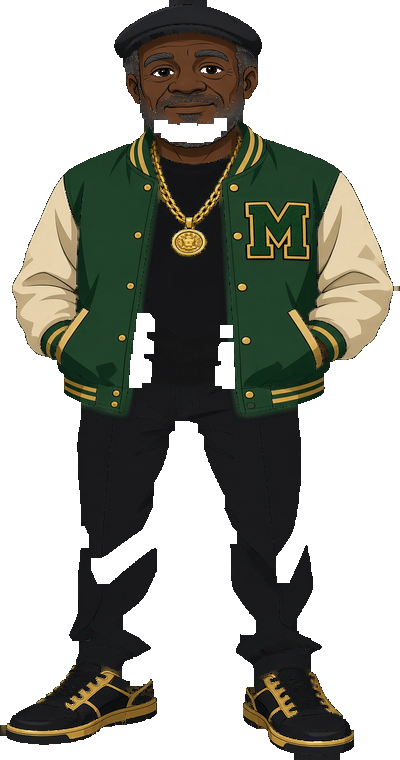
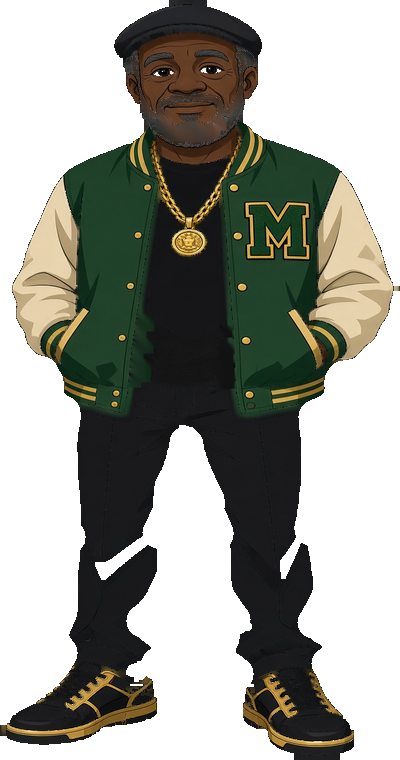
Sprites: clean street crowd, true Benji colours, repair trouser cuts
- PED_SKINS now uses only full-body single-figure plates. Dropped the K Blanco
  bust (walker4), K Blanco clone (walker5), back-only Benji lookalike
  (walker3, still Cam's sprite), two-figure sheet (walker6), and plates with
  a baked panel strip or header text (walker0, walker7).
- Benji card: toneMapped false. ACES at day exposure turned his browns
  yellow; plates now show approved colours like the NPC cards do.
- dj / court-og: close the jagged notches an old dark-flood key cut into
  their black trousers (scripts/repair-people-plates.mjs).
- ART_REV 92.

Claude-Session: https://claude.ai/code/session_011XGCotqBWtNhVLXTttk4cE

diff --git a/src/game/cityArt.ts b/src/game/cityArt.ts
@@ -63,16 +63,13 @@ export const NPC_SPRITE: Record<string, keyof typeof PEOPLE_URLS> = {
   rcm_chauffeur: "host",
 };
 
-export const PED_SKINS: (keyof typeof PEOPLE_URLS)[] = [
-  "walker0",
-  "walker1",
-  "walker2",
-  "walker3",
-  "walker4",
-  "walker5",
-  "walker6",
-  "walker7",
-];
+/**
+ * Street crowd: full-body, single-figure plates only.
+ * Left out on purpose: walker3 (back-only Benji lookalike, Cam's sprite), walker4 (K Blanco bust),
+ * walker5 (K Blanco belongs inside HQ), walker6 (two-figure sheet), walker0 (baked panel strip),
+ * walker7 (header text + white backdrop between the legs).
+ */
+export const PED_SKINS: (keyof typeof PEOPLE_URLS)[] = ["walker1", "walker2", "fan", "local", "supporter"];
 export const CAR_SKINS: (keyof typeof CAR_URLS)[] = ["sedan", "suv", "chevy", "coupe"];
 export const FOOD_URLS = {
   velis: "/game/food/velis-wings.webp",

diff --git a/src/game/playerCharacter.ts b/src/game/playerCharacter.ts
@@ -100,7 +100,8 @@ function benjiCardMaterial(src?: HTMLImageElement | HTMLCanvasElement, path = ""
     polygonOffsetFactor: -8,
     polygonOffsetUnits: -8,
     side: THREE.DoubleSide,
-    toneMapped: true,
+    // Unlit plate: ACES at day exposure pushed his browns to yellow. Show the approved colours, same as street NPC cards.
+    toneMapped: false,
     fog: true,
   });
   mat.userData.path = path;

diff --git a/src/game/data.ts b/src/game/data.ts
@@ -33,7 +33,7 @@ export const PAL = {
 } as const;
 
 /** Bump to force the live preview to remount the world bake. */
-export const ART_REV = 91;
+export const ART_REV = 92;
 
 export const BRAND = {
   name: "$ackReligious",
